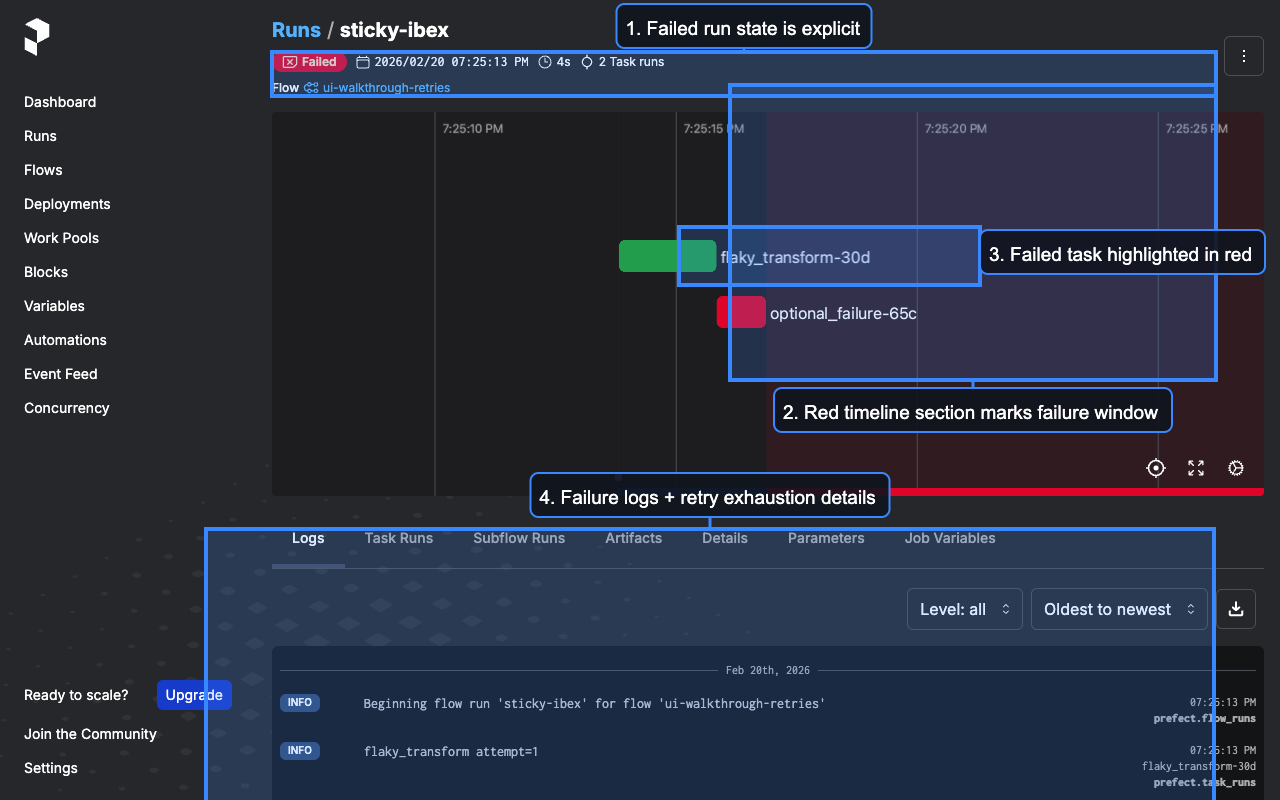
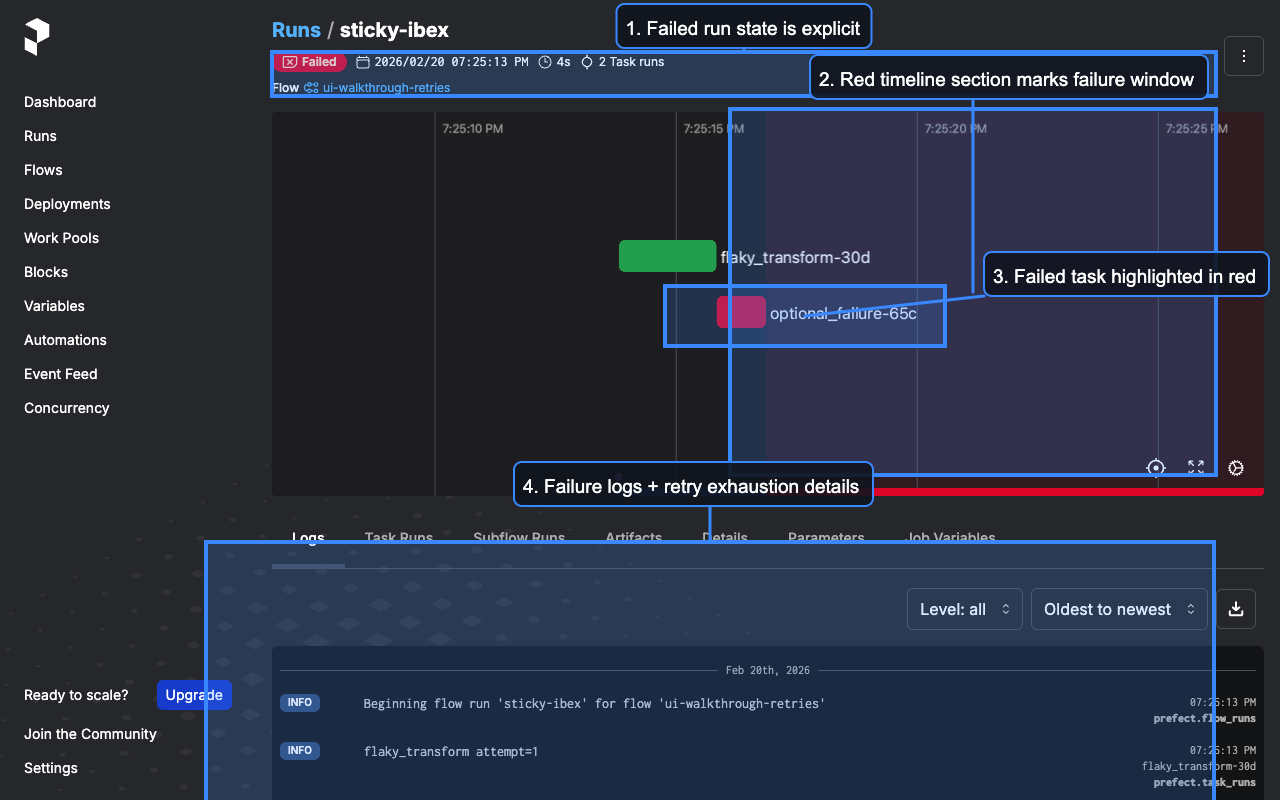
Fix Prefect run-detail Gantt callout alignment

Changed region(s): [[0.1562, 0.4688, 0.9688, 0.6875], [0.5, 0.2812, 1.0, 0.4375], [0.5625, 0.0625, 0.9688, 0.1562]]

diff --git a/examples/prefect/tools/regenerate_prefect_ui_walkthrough_annotations.py b/examples/prefect/tools/regenerate_prefect_ui_walkthrough_annotations.py
@@ -73,16 +73,34 @@ LEGACY_COORDS = {
             "selector": "div.page-heading-flow-run__flow-details",
             "pad_css": [0, 0, 0, 0],
             "label_offset_css": [320, -36],
+            "line_anchor": "top-center",
+            "line_anchor_perimeter": False,
             "edge_refine": False,
         },
         {
             "text": "Task Gantt bars for execution",
-            "box_css": [578, 182, 393, 75],
-            "label_css": [980, 156],
+            "box_css": [600, 232, 340, 104],
+            "label_css": [980, 172],
+            "line_anchor": "center",
+            "line_anchor_perimeter": False,
             "edge_refine": False,
         },
-        {"text": "Switch tabs: logs, task runs, params", "selector": "ul.p-tab-navigation[role='tablist']", "label_offset_css": [520, -6], "edge_refine": False},
-        {"text": "Logs show retries and transitions", "box_css": [206, 529, 1008, 336], "label_css": [518, 492], "edge_refine": False},
+        {
+            "text": "Switch tabs: logs, task runs, params",
+            "selector": "ul.p-tab-navigation[role='tablist']",
+            "label_css": [860, 440],
+            "line_anchor": "top-center",
+            "line_anchor_perimeter": False,
+            "edge_refine": False,
+        },
+        {
+            "text": "Logs show retries and transitions",
+            "box_css": [206, 542, 1008, 324],
+            "label_css": [520, 462],
+            "line_anchor": "top-center",
+            "line_anchor_perimeter": False,
+            "edge_refine": False,
+        },
     ],
     "flow-run-failed-detail-annotated": [
         {
@@ -90,16 +108,34 @@ LEGACY_COORDS = {
             "selector": "div.page-heading-flow-run__flow-details",
             "pad_css": [0, 0, 0, 0],
             "label_offset_css": [320, -36],
+            "line_anchor": "top-center",
+            "line_anchor_perimeter": False,
             "edge_refine": False,
         },
         {
             "text": "Red timeline section marks failure window",
-            "box_css": [730, 85, 486, 295],
-            "label_css": [894, 52],
+            "box_css": [730, 109, 486, 366],
+            "label_css": [880, 78],
+            "line_anchor": "center",
+            "line_anchor_perimeter": False,
             "edge_refine": False,
         },
-        {"text": "Failed task highlighted in red", "box_css": [679, 227, 301, 58], "label_css": [980, 230], "edge_refine": False},
-        {"text": "Failure logs + retry exhaustion details", "box_css": [206, 529, 1008, 335], "label_css": [472, 492], "edge_refine": False},
+        {
+            "text": "Failed task highlighted in red",
+            "box_css": [665, 286, 280, 60],
+            "label_css": [984, 252],
+            "line_anchor": "center",
+            "line_anchor_perimeter": False,
+            "edge_refine": False,
+        },
+        {
+            "text": "Failure logs + retry exhaustion details",
+            "box_css": [206, 542, 1008, 324],
+            "label_css": [514, 462],
+            "line_anchor": "top-center",
+            "line_anchor_perimeter": False,
+            "edge_refine": False,
+        },
     ],
     "flows-catalog-annotated": [
         {"text": "Search + tag + sort controls", "selector": "div.list-header.list-header--sticky", "label_offset_css": [620, -50], "edge_refine": False},
